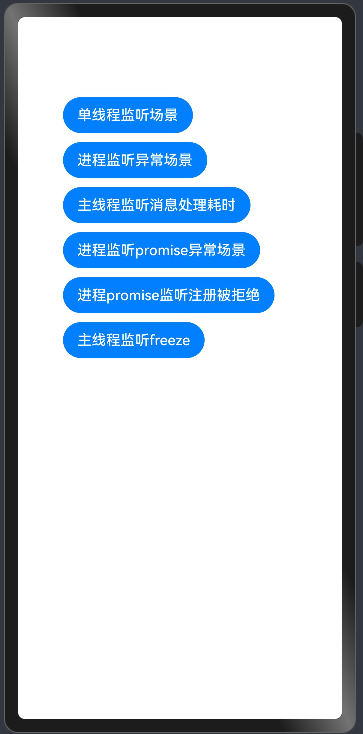
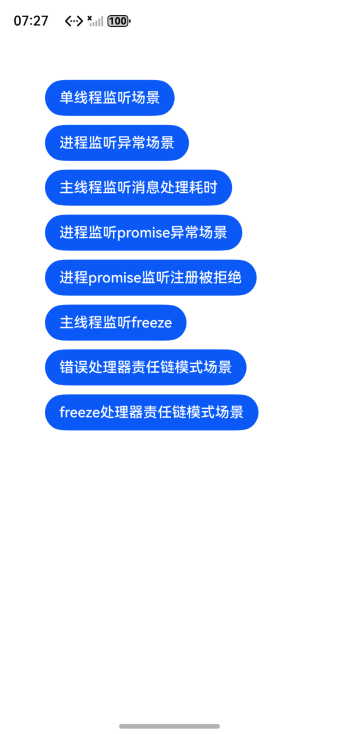
增加同源代码

diff --git a/code/DocsSample/PerformanceAnalysisKit/ErrorManage/ErrorManage/README_zh.md b/code/DocsSample/PerformanceAnalysisKit/ErrorManage/ErrorManage/README_zh.md
@@ -64,6 +64,15 @@ freezecallback
 [FirstHandler] First uncaught exception handler invoked.
 [SecondHandler] Second uncaught exception handler invoked.
 ```
+（8）重启应用，点击“freeze处理器责任链模式场景”按钮，出现如下形式日志输出：
+
+```
+Registered First freeze Handler.
+Registered Second freeze Handler.
+[SecondHandler] Second freeze handler invoked.
+[FirstHandler] First freeze handler invoked.
+[FirstHandler] First freeze handler end.
+```
 
 ###  工程目录
 
@@ -75,13 +84,15 @@ entry/src/main/ets
                 │   └─EntryBackupAbility.ets
                 └─pages
                     └─FirstErrorHandler.ets   // first error handler
+                    └─FirstFreezeHandler.ets   // first freeze handler
                     └─Index.ets   		      // 主页
                     └─SecondErrorHandler.ets  // second error handler
+                    └─SecondFreezeHandler.ets  // second freeze handler
 ```
 
 ###  具体实现
 
-- 在Index.ets、FirstErrorHandler.ets及SecondErrorHandler.ets中定义各类error的构造函数及回调函数
+- 在Index.ets、FirstErrorHandler.ets、FirstFreezeHandler.ets、SecondErrorHandler.ets及SecondFreezeHandler.ets中定义各类error的构造函数及回调函数。
 - 在Index.ets中添加触发按钮，点击按钮即可引发对应error事件，进而调用相关错误管理的回调函数。
 
 ###  相关权限
@@ -94,10 +105,11 @@ entry/src/main/ets
 
 ###  约束与限制
 
-1. 本示例仅支持标准系统上运行，支持设备：RK3568;
-2. 本示例中除错误处理器责任链模式场景外的所有错误场景均已适配API18版本SDK，版本号：5.1.0.56，镜像版本号：OpenHarmony_5.1.0.56。
+1. 本示例仅支持标准系统上运行，支持设备：RK3568；
+2. 本示例中除错误处理器责任链模式场景外的所有错误场景均已适配API18版本SDK，版本号：5.1.0.56，镜像版本号：OpenHarmony_5.1.0.56；
 3. 本示例需要使用DevEco Studio 6.0.0 Canary1 (Build Version: 6.0.0.270， built on May 9, 2025)及以上版本才可编译运行；
-4. 错误处理器责任链模式场景需要适配API21版本SDK，支持API21版本SDK，版本号：6.0.1.112，镜像版本号：OpenHarmony_6.0.1.112。
+4. 错误处理器责任链模式场景需要适配API21版本SDK，支持API21版本SDK，版本号：6.0.1.112，镜像版本号：OpenHarmony_6.0.1.112；
+5. freeze处理器责任链模式场景需要适配API26版本SDK，支持API26版本SDK，版本号：7.0.0.20，镜像版本号：OpenHarmony_7.0.0.20。
 
 ### 下载
 
